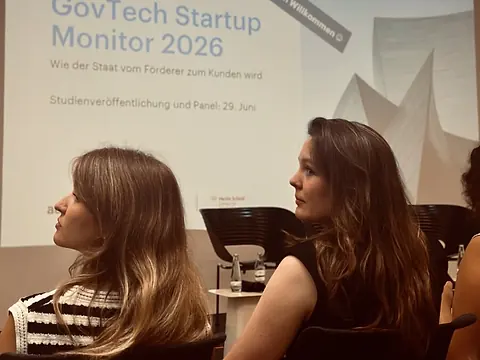
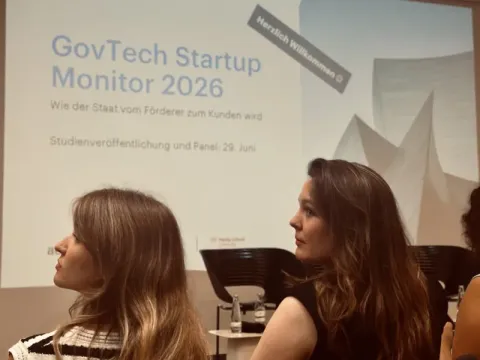
Insights-Kacheln: GovTech neu geschnitten, Integration mit Foto statt Marken-Cover, Geburtstagsbild ganz
- GovTech: Ausschnitt 150 px tiefer, Titel, Willkommen-Schild und beide Gesichter im Bild
- Integration: zwei Neon-Haende (aus dem Fuehrungs-Case) statt yorck-Insights-Grafik, Kachel auf Startseite und Insights-Uebersicht
- Happy Birthday: volle Bildhoehe, weich unscharfe Seiten statt Beschnitt

diff --git a/index.html b/index.html
@@ -276,7 +276,7 @@
         <div class="strip__track" tabindex="0" role="region" aria-label="Insights, seitlich scrollbar">
           <a class="tile" href="insights/kein-angebotsproblem-public-sector.html" style="--tile-color:var(--cyan)"><picture class="tile__media"><source type="image/webp" srcset="assets/img/insight-govtech-tile-480.webp 480w, assets/img/insight-govtech-tile-800.webp 800w" sizes="(max-width: 720px) 82vw, 380px"><img src="assets/img/insight-govtech.jpg" alt="" width="901" height="1000" loading="lazy" decoding="async"></picture><div class="tile__body"><span class="tile__kicker">Public Sector</span><h3>Kein Angebotsproblem. Ein Zugangsproblem. Warum wir trotzdem auf den Public Sector setzen.</h3><span class="tile__link">Weiterlesen <span class="btn-arrow" aria-hidden="true">→</span></span></div></a>
           <a class="tile" href="insights/angstfreie-organisationen.html" style="--tile-color:var(--green)"><picture class="tile__media"><source type="image/webp" srcset="assets/img/insight-balloon-tile-480.webp 480w, assets/img/insight-balloon-tile-800.webp 800w" sizes="(max-width: 720px) 82vw, 380px"><img src="assets/img/insight-balloon.jpg" alt="" width="1125" height="1500" loading="lazy" decoding="async"></picture><div class="tile__body"><span class="tile__kicker">Kultur &amp; Innovation</span><h3>Warum angstfreie Organisationen der wahre Innovationsmotor sind</h3><span class="tile__link">Weiterlesen <span class="btn-arrow" aria-hidden="true">→</span></span></div></a>
-          <a class="tile" href="insights/integration-koenigsdisziplin.html" style="--tile-color:var(--violet)"><picture class="tile__media"><source type="image/webp" srcset="assets/img/insight-cover-640.webp 640w, assets/img/insight-cover-960.webp 960w, assets/img/insight-cover-1300.webp 1300w" sizes="(max-width: 720px) 82vw, 380px"><img src="assets/img/insight-cover.jpg" alt="" width="824" height="464" loading="lazy" decoding="async"></picture><div class="tile__body"><span class="tile__kicker">Strategie &amp; M&amp;A</span><h3>Wenn Übernahme nur der Start ist – warum ganzheitliche Integration die Königsdisziplin darstellt</h3><span class="tile__link">Weiterlesen <span class="btn-arrow" aria-hidden="true">→</span></span></div></a>
+          <a class="tile" href="insights/integration-koenigsdisziplin.html" style="--tile-color:var(--violet)"><picture class="tile__media"><source type="image/webp" srcset="assets/img/insight-integration-tile-480.webp 480w, assets/img/insight-integration-tile-800.webp 800w" sizes="(max-width: 720px) 82vw, 380px"><img src="assets/img/case-strategic-hands.jpg" alt="" width="1300" height="823" loading="lazy" decoding="async"></picture><div class="tile__body"><span class="tile__kicker">Strategie &amp; M&amp;A</span><h3>Wenn Übernahme nur der Start ist – warum ganzheitliche Integration die Königsdisziplin darstellt</h3><span class="tile__link">Weiterlesen <span class="btn-arrow" aria-hidden="true">→</span></span></div></a>
           <a class="tile" href="insights/private-hochschulen-unter-druck.html" style="--tile-color:var(--pink)"><picture class="tile__media"><source type="image/webp" srcset="assets/img/insight-hochschule-workshop-tile-480.webp 480w, assets/img/insight-hochschule-workshop-tile-800.webp 800w" sizes="(max-width: 720px) 82vw, 380px"><img src="assets/img/insight-hochschule-workshop.jpg" srcset="assets/img/insight-hochschule-workshop-480.jpg 480w, assets/img/insight-hochschule-workshop-800.jpg 800w, assets/img/insight-hochschule-workshop.jpg 889w" sizes="(max-width: 720px) 82vw, 380px" alt="" width="889" height="782" loading="lazy" decoding="async"></picture><div class="tile__body"><span class="tile__kicker">Strategie &amp; Bildung</span><h3>Private Hochschulen unter Druck – warum jetzt strategisches Handeln gefragt ist</h3><span class="tile__link">Weiterlesen <span class="btn-arrow" aria-hidden="true">→</span></span></div></a>
           <a class="tile" href="insights/kitas-im-wandel.html" style="--tile-color:var(--yellow)"><picture class="tile__media"><source type="image/webp" srcset="assets/img/insight-kita-tile-480.webp 480w, assets/img/insight-kita-tile-800.webp 800w" sizes="(max-width: 720px) 82vw, 380px"><img src="assets/img/insight-kita.jpg" alt="" width="1488" height="986" loading="lazy" decoding="async"></picture><div class="tile__body"><span class="tile__kicker">Positionierung</span><h3>Kitas im Wandel: Warum strategische Neupositionierung kein Luxus, sondern Überlebensstrategie ist</h3><span class="tile__link">Weiterlesen <span class="btn-arrow" aria-hidden="true">→</span></span></div></a>
           <a class="tile" href="insights/empowered-by-strengths.html" style="--tile-color:var(--pink)"><picture class="tile__media"><source type="image/webp" srcset="assets/img/insight-empowered-tile-480.webp 480w, assets/img/insight-empowered-tile-800.webp 800w" sizes="(max-width: 720px) 82vw, 380px"><img src="assets/img/insight-empowered.jpg" alt="" width="1600" height="1395" loading="lazy" decoding="async"></picture><div class="tile__body"><span class="tile__kicker">Kultur &amp; Diversity</span><h3>Empowered by Strengths – warum wir diesen Pride Month nicht schweigen 🏳🌈</h3><span class="tile__link">Weiterlesen <span class="btn-arrow" aria-hidden="true">→</span></span></div></a>

diff --git a/insights/index.html b/insights/index.html
@@ -79,7 +79,7 @@
             </div>
           </a>
           <a class="tile" href="integration-koenigsdisziplin.html" style="--tile-color:var(--violet)">
-            <picture class="tile__media"><source type="image/webp" srcset="../assets/img/insight-cover-640.webp 640w, ../assets/img/insight-cover-960.webp 960w, ../assets/img/insight-cover-1300.webp 1300w" sizes="(max-width: 720px) 82vw, 380px"><img src="../assets/img/insight-cover.jpg" alt="" width="824" height="464" loading="lazy" decoding="async"></picture>
+            <picture class="tile__media"><source type="image/webp" srcset="../assets/img/insight-integration-tile-480.webp 480w, ../assets/img/insight-integration-tile-800.webp 800w" sizes="(max-width: 720px) 82vw, 380px"><img src="../assets/img/case-strategic-hands.jpg" alt="" width="1300" height="823" loading="lazy" decoding="async"></picture>
             <div class="tile__body">
               <span class="tile__kicker">Strategie &amp; M&amp;A</span>
               <h3>Wenn Übernahme nur der Start ist – warum ganzheitliche Integration die Königsdisziplin darstellt</h3>
